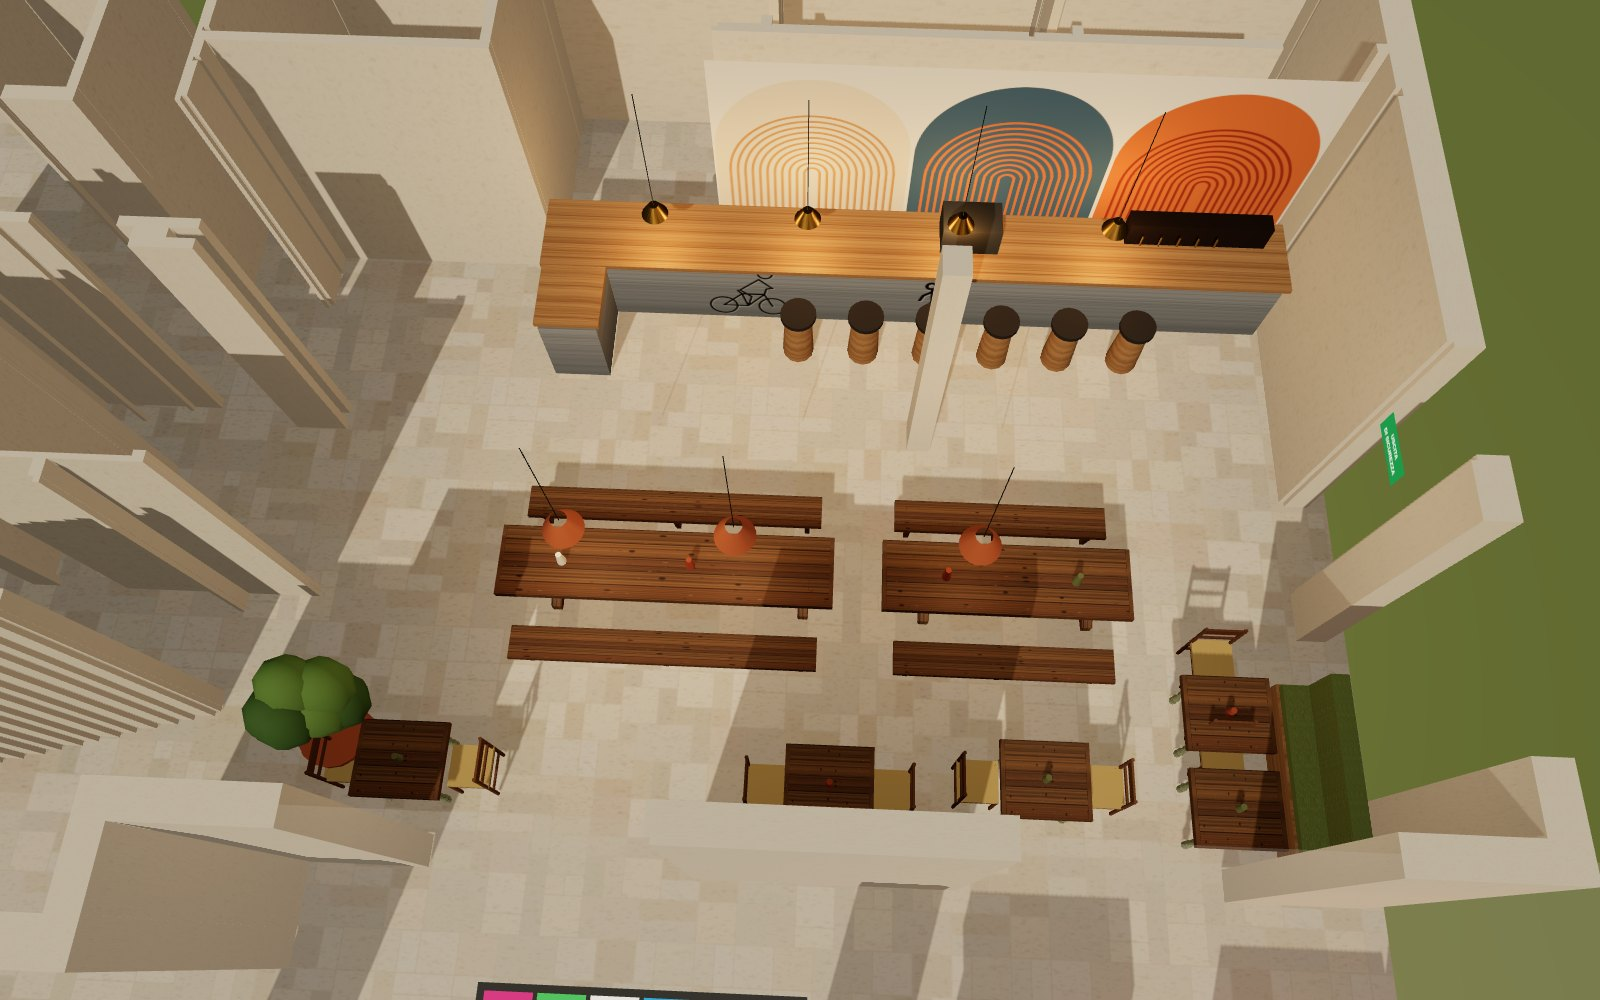
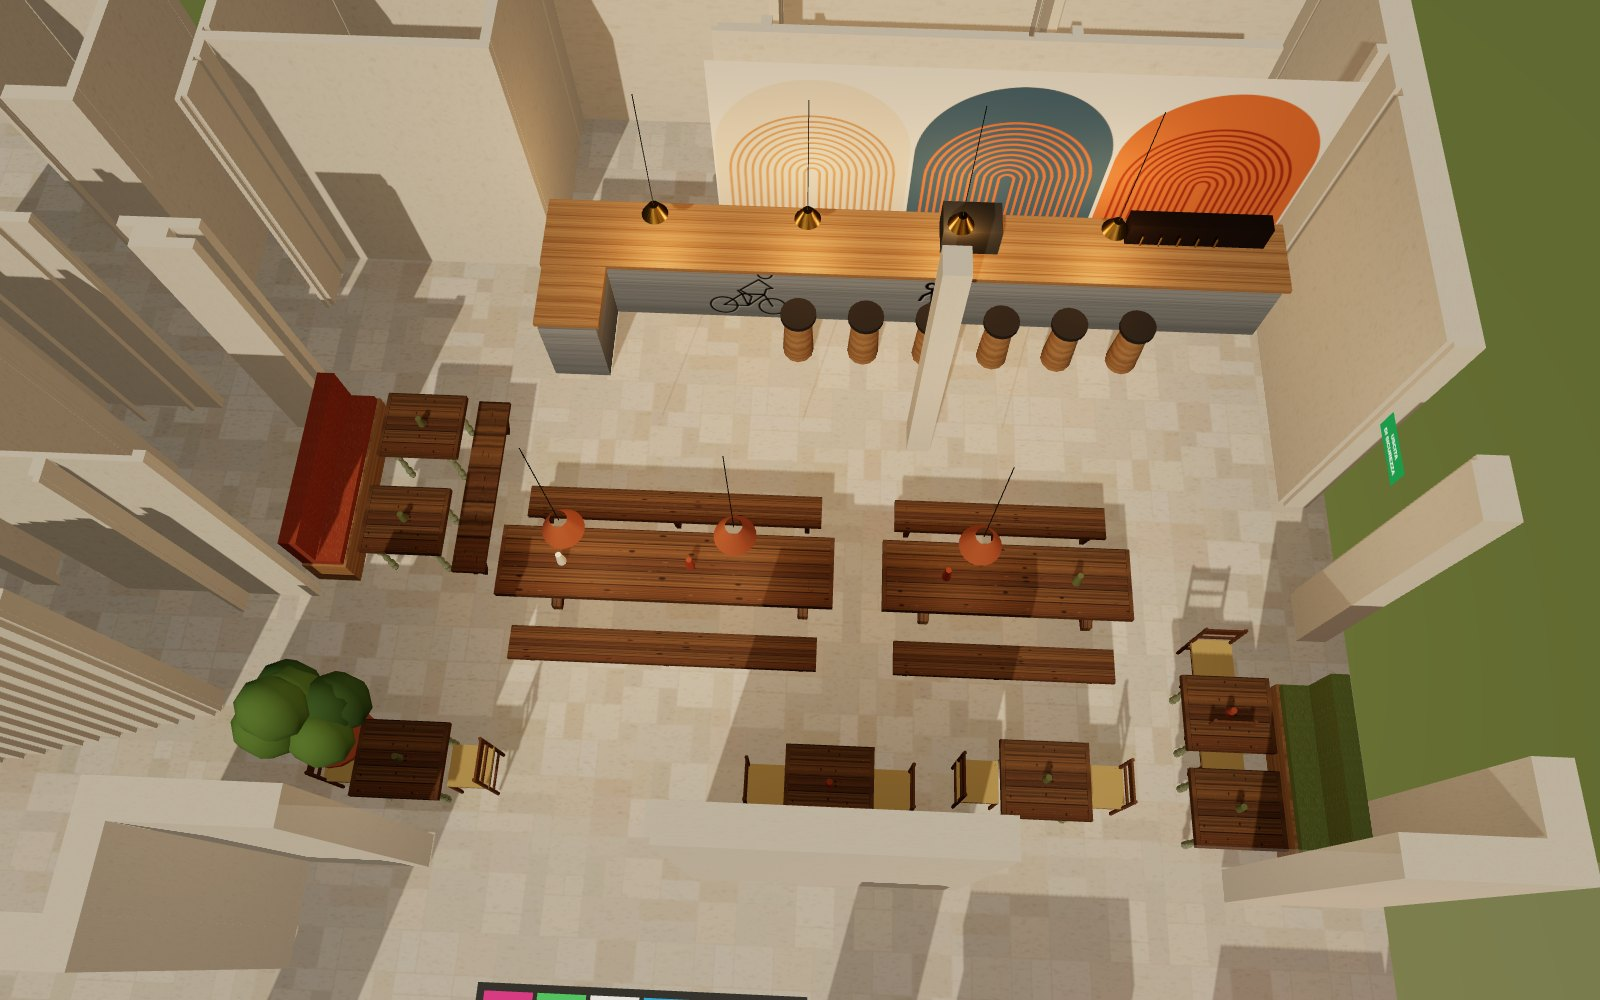
Sala: rimessa la seduta rossa dove c'era il bar vecchio, con tavolini antichi
Claude-Session: https://claude.ai/code/session_01QZXxqty357DcebAAL5Vpaf

Changed region(s): [[0.1562, 0.341, 0.3438, 0.589], [0.125, 0.651, 0.2188, 0.775]]

diff --git a/render-3d/sala-tavoli-antichi/piu-antichi/pianoterra.js b/render-3d/sala-tavoli-antichi/piu-antichi/pianoterra.js
@@ -421,7 +421,11 @@ function antBenchZ(x, z0, z1) { box(x - 0.17, x + 0.17, 0.42, 0.47, z0, z1, antW
   // banquette along the east wall with two little tables
   const bq = boucle('#7f8f4e'); box(P(1388), P(1424), 0, 0.45, P(690), P(820), oakM); box(P(1390), P(1424), 0.45, 0.55, P(692), P(818), bq); box(P(1410), P(1424), 0.55, 1.05, P(692), P(818), bq);
   smallT(1340, 720, false); smallT(1340, 790, false);
-  // (no banquette on the west side: that is the way to the toilets, it stays free)
+  // second banquette on the west wall (terracotta velvet), two little tables with a chair facing it
+  { const bq2 = boucle('#a8502c'); box(P(604), P(640), 0, 0.45, P(470), P(625), oakM); box(P(604), P(638), 0.45, 0.55, P(472), P(623), bq2); box(P(604), P(618), 0.55, 1.05, P(472), P(623), bq2);
+    for (const pz of [505, 590]) { const x = P(690), z = P(pz); antTable(x - 0.38, x + 0.38, z - 0.36, z + 0.36); cyl(x, z, 0.04, 0.76, 0.9, M('#6f7448'), 10, 0.03); }
+    // a wooden bench on the other side instead of two chairs
+    { const bx = P(690) + 0.64; antBenchZ(bx, P(470), P(625)); } }
   for (const [x, z] of [[P(660), P(760)]]) { cyl(x, z, 0.3, 0, 0.55, M('#b9673d'), 16, 0.34); for (let i = 0; i < 7; i++) { const lf = new THREE.Mesh(new THREE.SphereGeometry(0.28, 8, 6), M(i % 2 ? '#4f6e3a' : '#6a8a45')); lf.scale.y = 1.5; lf.position.set(x + (rnd() - 0.5) * 0.5, 1.0 + rnd() * 0.9, z + (rnd() - 0.5) * 0.5); scene.add(lf); } } }
 // PORTICO as lounge: few long floor cushions, dance floor flush with the floor, piano, fireplace
 { const pm = [boucle('#a3262a'), boucle('#2f4a6e'), boucle('#1f5c5a'), boucle('#d98a2b')];
@@ -438,7 +442,7 @@ const sun = new THREE.DirectionalLight('#fff0d8', AERIAL ? 2.4 : 1.4); sun.posit
 sun.castShadow = true; sun.shadow.mapSize.set(4096, 4096); Object.assign(sun.shadow.camera, { left: -16, right: 16, top: 16, bottom: -16, near: 1, far: 60 }); sun.shadow.bias = -0.0005; scene.add(sun);
 if (!AERIAL) for (const [x, z] of [[11, 7], [16, 7], [11, 9], [16, 9]]) { const l = new THREE.PointLight('#ffe2b8', 1.6, 0, 2); l.position.set(x, 3.0, z); scene.add(l); }
 scene.background = new THREE.Color('#2b3a2f');
-const CAMS = { panche: [[17.0, 1.6, 8.8], [11.5, 0.6, 7.0], 64], vicino2: [[12.2, 1.35, 9.6], [11.2, 0.6, 7.6], 60], tavolino: [[12.3, 1.3, 8.9], [13.2, 0.6, 9.9], 58], sala2: [[11.6, 1.75, 5.0], [15.5, 0.9, 9.8], 68], salatop: [[13.0, 11.5, 11.5], [12.8, 0, 6.8], 48], alto: [[9.3, 27, 17.5], [9.3, 0, 7.4], 42], bar: [[14.2, 1.6, 9.6], [14.2, 1.4, 3.6], 68], sala: [[17.6, 1.7, 9.9], [9.5, 1.1, 5.0], 66], portico: [[3.6, 1.6, 13.6], [14, 0.9, 12.6], 64] };
+const CAMS = { rossa: [[10.6, 1.6, 8.6], [7.9, 0.6, 6.9], 62], sala2: [[11.6, 1.75, 5.0], [15.5, 0.9, 9.8], 68], salatop: [[13.0, 11.5, 11.5], [12.8, 0, 6.8], 48], alto: [[9.3, 27, 17.5], [9.3, 0, 7.4], 42], bar: [[14.2, 1.6, 9.6], [14.2, 1.4, 3.6], 68], sala: [[17.6, 1.7, 9.9], [9.5, 1.1, 5.0], 66], portico: [[3.6, 1.6, 13.6], [14, 0.9, 12.6], 64] };
 const k = CAMS[VIEW] || CAMS.alto;
 const camera = new THREE.PerspectiveCamera(k[2], W / H, 0.05, 200); camera.position.set(...k[0]); camera.lookAt(...k[1]);
 renderer.render(scene, camera);
